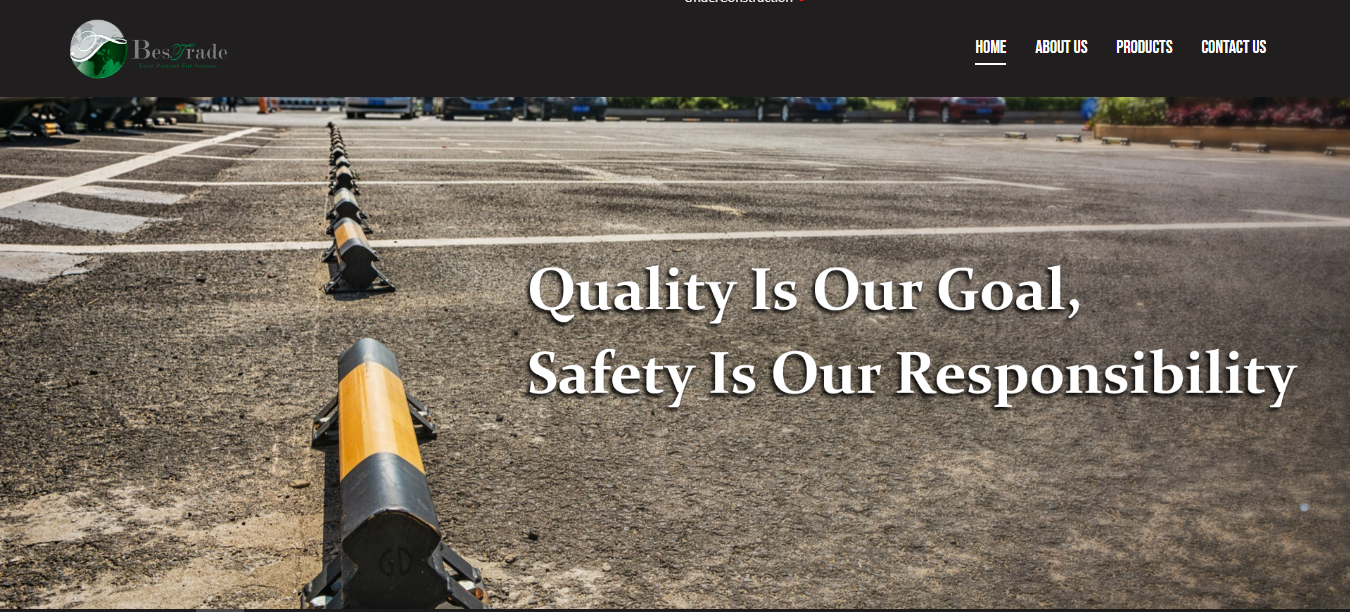
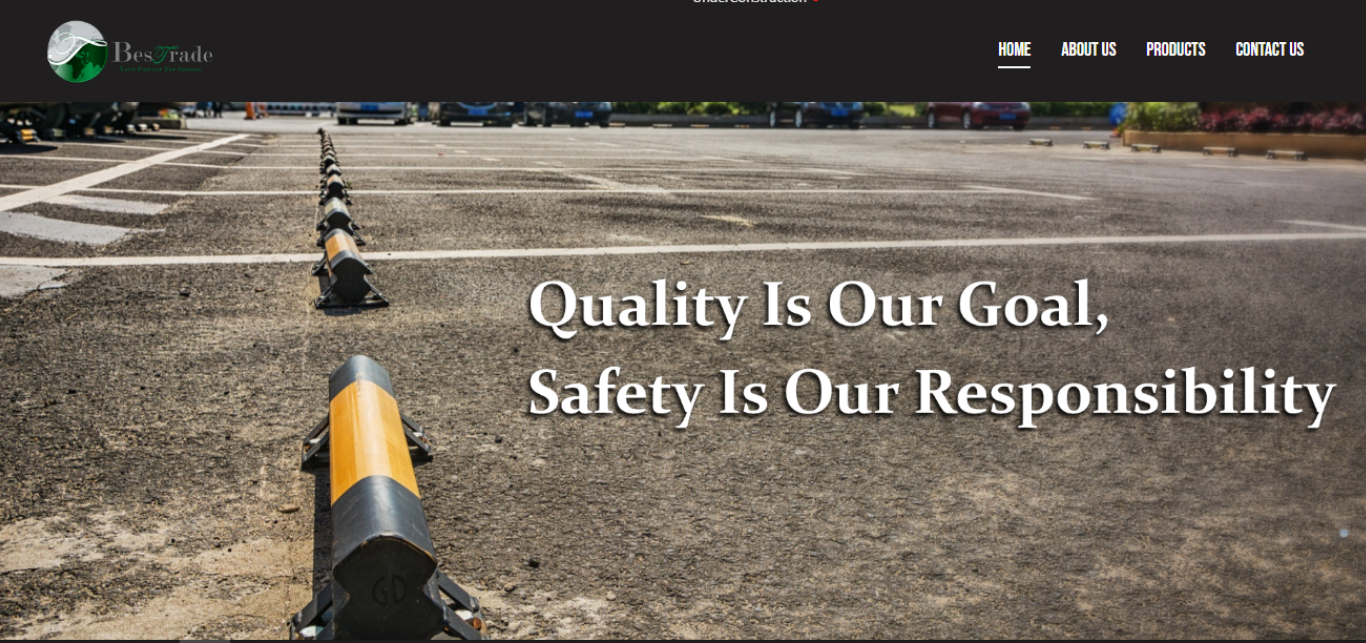
changes to align items in html file

diff --git a/index.html b/index.html
@@ -24,9 +24,9 @@
 <body>
     <div class="container-fluid">
         <div class="row m-md-5">
-            <div class="col-sm-12 col-md-6 col-lg-4 mt-3 my-md-0">
+            <div class="col-sm-12 col-md-5 col-lg-4 mt-3 my-md-0">
                 <!-- Side Navbar Section -->
-                <nav class="navbar navbar-expand-lg bg-main py-5 rounded-5 border h-100">
+                <nav class="navbar navbar-expand-lg bg-main py-5 rounded-5 border h-100 align-items-start">
                     <div class="container-fluid flex-column ">
                         <div class="image-container rounded-circle overflow-hidden position-relative main-image">
                             <img src="assets/images/20250214_180317.jpg" class="w-100 h-100 object-fit-cover" alt="">
@@ -81,7 +81,7 @@
                 </nav>
             </div>
             <!-- Main Center Section -->
-            <div class="col-sm-12 col-md-6 col-lg-8 my-3 my-md-0">
+            <div class="col-sm-12 col-md-7 col-lg-8 my-3 my-md-0">
                 <div class="secondary text-center p-3 border rounded-5 h-100">
                     <!-- navs -->
                     <ul class="nav nav-tabs justify-content-center" id="myTab" role="tablist">
@@ -147,43 +147,8 @@
                                 <!-- Wordpress Content -->
                                 <div class="tab-pane fade show active" id="wordpress-tab-pane" role="tabpanel"
                                     aria-labelledby="wordpress-tab" tabindex="0">
-                                    <div class="row g-3">
-                                        <div class="col-sm-12 col-lg-6">
-                                            <div class="card bg-transparent p-2">
-                                                <img src="./assets/images/image.png" class="card-img"
-                                                    alt="Quote Generator app">
-                                                <div class="card-body my-2">
-                                                    <h5 class="card-title main-text">CMS - Holoul
-                                                    </h5>
-
-                                                    <p class="card-text text-white">A CMS Website for a company called
-                                                        CMS
-                                                        Specialized in Collections and Telesales
-                                                    </p>
-                                                    <p>
-                                                        <a href="https://mywordpresssite.lovestoblog.com/"
-                                                            target="_blank" class="main-text">Check Website</a>
-                                                    </p>
-                                                </div>
-                                            </div>
-                                        </div>
-                                        <div class="col-sm-12 col-lg-6">
-                                            <div class="card bg-transparent p-2">
-                                                <img src="./assets/images/besttrade.png" class="card-img"
-                                                    alt="best trade">
-                                                <div class="card-body my-2">
-                                                    <h5 class="card-title main-text">Best Trade</h5>
-                                                    <p class="card-text text-white">Best trade is a company specialized
-                                                        in the supply and installation equipment, service tools, road
-                                                        safety and garage planning through products
-                                                    </p>
-                                                    <p>
-                                                        <a href="https://besttrade-eg.com/" target="_blank"
-                                                            class="main-text">Check Website</a>
-                                                    </p>
-                                                </div>
-                                            </div>
-                                        </div>
+                                    <div class="row g-3" id="wordpressContent">
+                                        
                                     </div>
                                 </div>
                                 <!-- Native Content -->
@@ -302,40 +267,8 @@
                                 <!-- Framework Content -->
                                 <div class="tab-pane fade" id="framework-pane" role="tabpanel"
                                     aria-labelledby="framework" tabindex="0">
-                                    <div class="d-flex flex-column flex-lg-row gap-3 justify-content-evenly ">
-                                        <div class="card bg-transparent p-2 w-100 mx-auto">
-                                            <img src="./assets/images/freshcart.png" class="card-img-top"
-                                                alt="Fresh Cart App">
-                                            <div class="card-body my-2">
-                                                <h5 class="card-title main-text">Fresh Cart App</h5>
-                                                <p class="card-text text-white">A Fully responsive e-commerce website
-                                                    built with Angular Framework.
-                                                    Used Tailwind and TypeScript, RESTfull API.
-                                                    Auth Features.
-                                                </p>
-                                                <p>
-                                                    <a href="https://freshcart-lime.vercel.app" target="_blank"
-                                                        class="main-text">Check Website</a>
-                                                </p>
-                                            </div>
-                                        </div>
-                                        <div class="card bg-transparent p-2 w-100 mx-auto">
-                                            <img src="./assets/images/Cinestation.png" class="w-100 card-img-top"
-                                                alt="Cinestation movie web app">
-                                            <div class="card-body my-2">
-                                                <h5 class="card-title main-text">CineStation</h5>
-                                                <p class="card-text text-white">A Fully responsive movies and tv-series
-                                                    website built with Angular Framework, Tailwind, TypeScript and
-                                                    RESTfull API. <br>
-                                                    Implemented good functionalities like signals, lazyLoading, pipes,
-                                                    and more!
-                                                </p>
-                                                <p>
-                                                    <a href="https://cinestation.vercel.app/#/home" target="_blank"
-                                                        class="main-text">Check Website</a>
-                                                </p>
-                                            </div>
-                                        </div>
+                                    <div class="row g-3" id="frameworkContent" >
+                                        
                                     </div>
                                 </div>
                             </div>

diff --git a/js/main.js b/js/main.js
@@ -1,3 +1,4 @@
+// Experience Section
 async function getData() {
   let data = await fetch(
     "https://api.jsonbin.io/v3/b/6962520fd0ea881f40621007",
@@ -44,3 +45,107 @@ for (let index = 0; index < data.length; index++) {
                             </div>`;
   desc = [];
 }
+// End Of Experience Section
+
+// Projects Section
+let wordpressTab = document.querySelector("#wordpressContent");
+let wordpressContent = [];
+let nativeTab = document.querySelector("#native-tab");
+let frameworkTab = document.querySelector("#frameworkContent");
+
+let tags = [];
+let wordpressProjects = [];
+let frameworkProjects = [];
+
+// Wordpress projects
+async function getWordpressProjects() {
+  let data = await fetch(
+    "https://api.jsonbin.io/v3/b/697f2db2ae596e708f08e4ef",
+    {
+      headers: {
+        "X-Master-Key":
+          "$2a$10$qIHW.uBjT202MQY9ParQ3uy9HibyOY/o5K/J9ROIp1LXAsAeIL1TG",
+      },
+    },
+  ).then((e) => e.json());
+  return data.record;
+}
+wordpressProjects = await getWordpressProjects();
+console.log(wordpressProjects);
+
+for (let index = 0; index < wordpressProjects.length; index++) {
+  for (let tag = 0; tag < wordpressProjects[index].techtags.length; tag++) {
+    tags.push(wordpressProjects[index].techtags[tag]);
+  }
+  wordpressTab.innerHTML += `<div class="col-sm-12 col-lg-6">
+                                            <div class="card bg-transparent p-2 h-100">
+                                                <img src="${wordpressProjects[index].url}" class="card-img"
+                                                    alt="Quote Generator app">
+                                                <div class="card-body my-2">
+                                                    <h5 class="card-title main-text">${wordpressProjects[index].name}
+                                                    </h5>
+
+                                                   <p class="card-text text-white">${wordpressProjects[index].description}
+                                                   </p>
+                                                   <p>
+                                                       <a href="${wordpressProjects[index].demo}"
+                                                           target="_blank" class="main-text">View Demo</a>
+                                                   </p>
+                                                   <p class="card-text">tags: ${tags}</p>
+                                               </div>
+                                           </div>
+                                       </div>`;
+  tags = [];
+}
+
+// Framework Projects
+
+async function getFrameworkProjects() {
+  let data = await fetch(
+    "https://api.jsonbin.io/v3/b/697f5dfcae596e708f092f67",
+    {
+      headers: {
+        "X-Master-Key":
+          "$2a$10$qIHW.uBjT202MQY9ParQ3uy9HibyOY/o5K/J9ROIp1LXAsAeIL1TG",
+      },
+    },
+  ).then((e) => e.json());
+  return data.record;
+}
+frameworkProjects = await getFrameworkProjects();
+console.log(frameworkProjects);
+
+for (let index = 0; index < frameworkProjects.length; index++) {
+  for (let tag = 0; tag < frameworkProjects[index].techtags.length; tag++) {
+    tags.push(frameworkProjects[index].techtags[tag]);
+  }
+  frameworkTab.innerHTML += `<div class="col-sm-12 col-lg-6">
+                                            <div class="card bg-transparent p-2 rounded-4 h-100">
+                                              <div class="card-img-top">
+                                                <img class="w-100 rounded-3" src="${frameworkProjects[index].url}" class="card-img"
+                                                alt="${frameworkProjects[index].name}">
+                                              </div>    
+                                                <div class="card-body d-flex flex-column my-2">
+                                                    <h5 class="card-title main-text">${frameworkProjects[index].name}
+                                                    </h5>
+
+                                                   <p class="card-text text-white flex-grow-1">${frameworkProjects[index].description}
+                                                   </p>
+                                                   
+                                                   <div class="tags-section flex-grow-1">
+                                                    <p class="card-text mb-0 text-start fw-bold text-white">tags:</p>
+                                                      <ul class="tags-list">
+                                                      ${tags.map((tag) => `<li class="tag fw-bold text-white">${tag}</li>`).join("")}
+                                                      </ul>
+                                                   </div>
+                                                   <p>
+                                                       <a href="${frameworkProjects[index].demo}"
+                                                           target="_blank" class="demo-link">View Demo</a>
+                                                   </p>
+                                               </div>
+                                           </div>
+                                       </div>`;
+  tags = [];
+}
+
+// End OfProjects Section

diff --git a/styles/main.css b/styles/main.css
@@ -77,7 +77,7 @@ hr {
   width: 100%;
 }
 
-.fitself a{
+.fitself a {
   transition: all 0.3s;
 }
 .fitself:hover a {
@@ -134,7 +134,8 @@ hr {
 }
 
 .bg-angular {
-  background-image: linear-gradient(
+  background-image:
+    linear-gradient(
       63deg,
       transparent 66%,
       oklch(16.93% 0.004 285.95) 69%,
@@ -180,7 +181,8 @@ hr {
 }
 
 .main-text {
-  animation: tracking-in-expand-fwd 1s cubic-bezier(0.215, 0.61, 0.355, 1) .4s both;
+  animation: tracking-in-expand-fwd 1s cubic-bezier(0.215, 0.61, 0.355, 1) 0.4s
+    both;
 }
 
 @keyframes tracking-in-expand-fwd {
@@ -196,4 +198,35 @@ hr {
     transform: translateZ(0);
     opacity: 1;
   }
+}
+
+.tags-list {
+  display: flex;
+  list-style: none;
+  flex-wrap: wrap;
+  /* column-gap: 3px; */
+  padding-left: 0;
+}
+
+.tag::after {
+  content: ".";
+  padding-inline: 5px;
+}
+
+.tag:last-child::after {
+  content: "";
+}
+
+.demo-link {
+  border: 1px gray solid;
+  padding: 8px 12px;
+  border-radius: 12px;
+  text-decoration: none;
+  color: white;
+  transition: all 0.3s;
+}
+
+.demo-link:hover {
+  background-color: rgb(108, 117, 125);
+  /* color: black; */
 }
